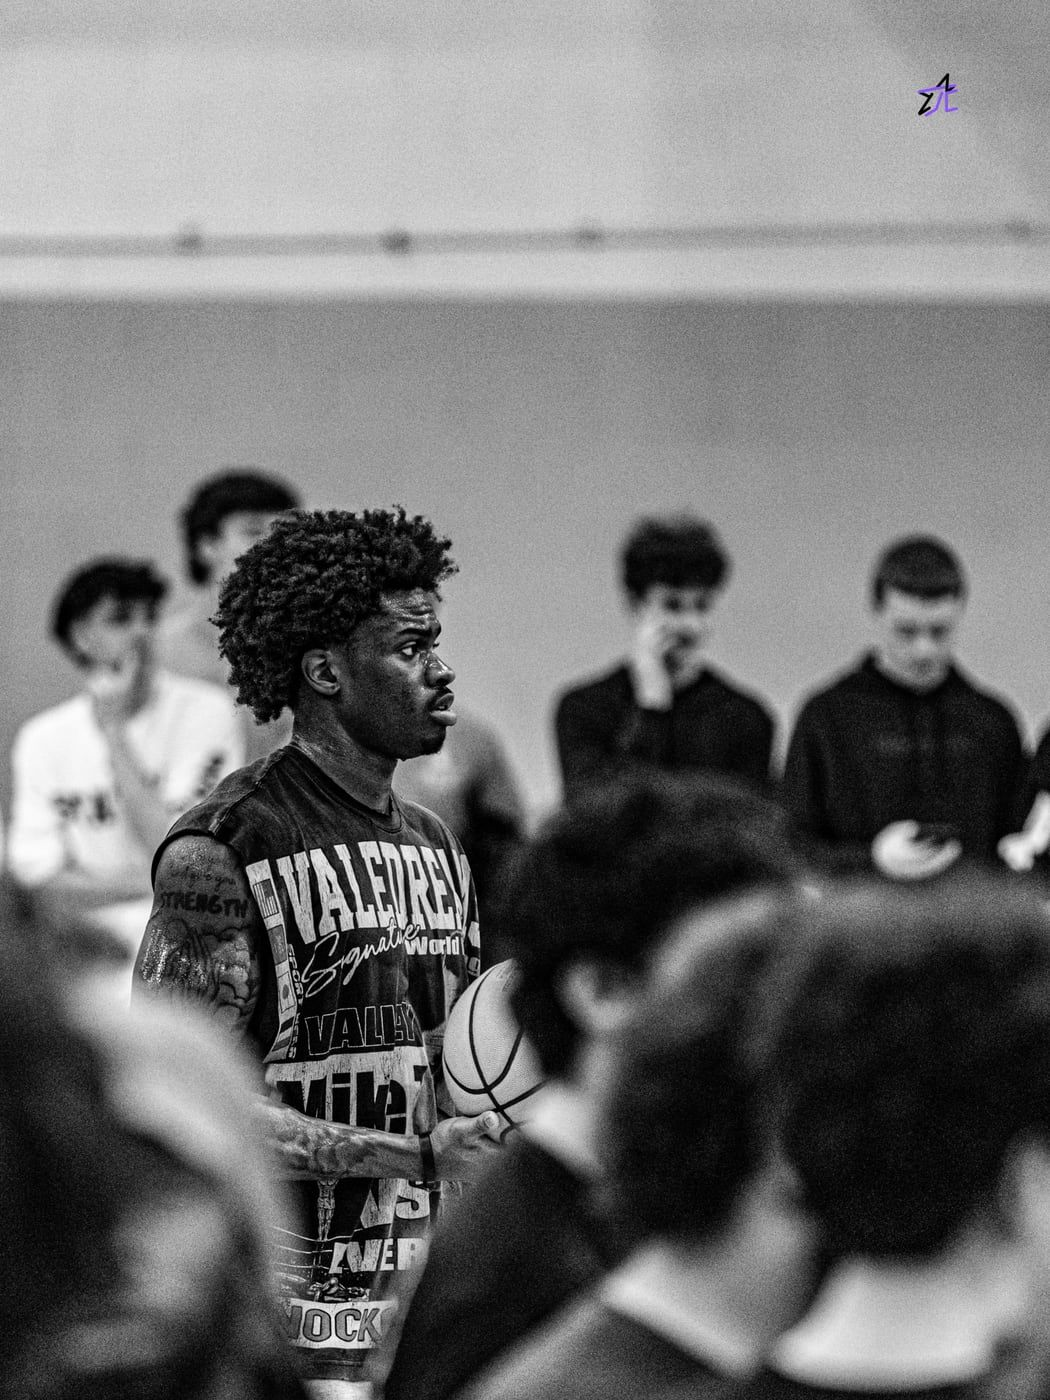
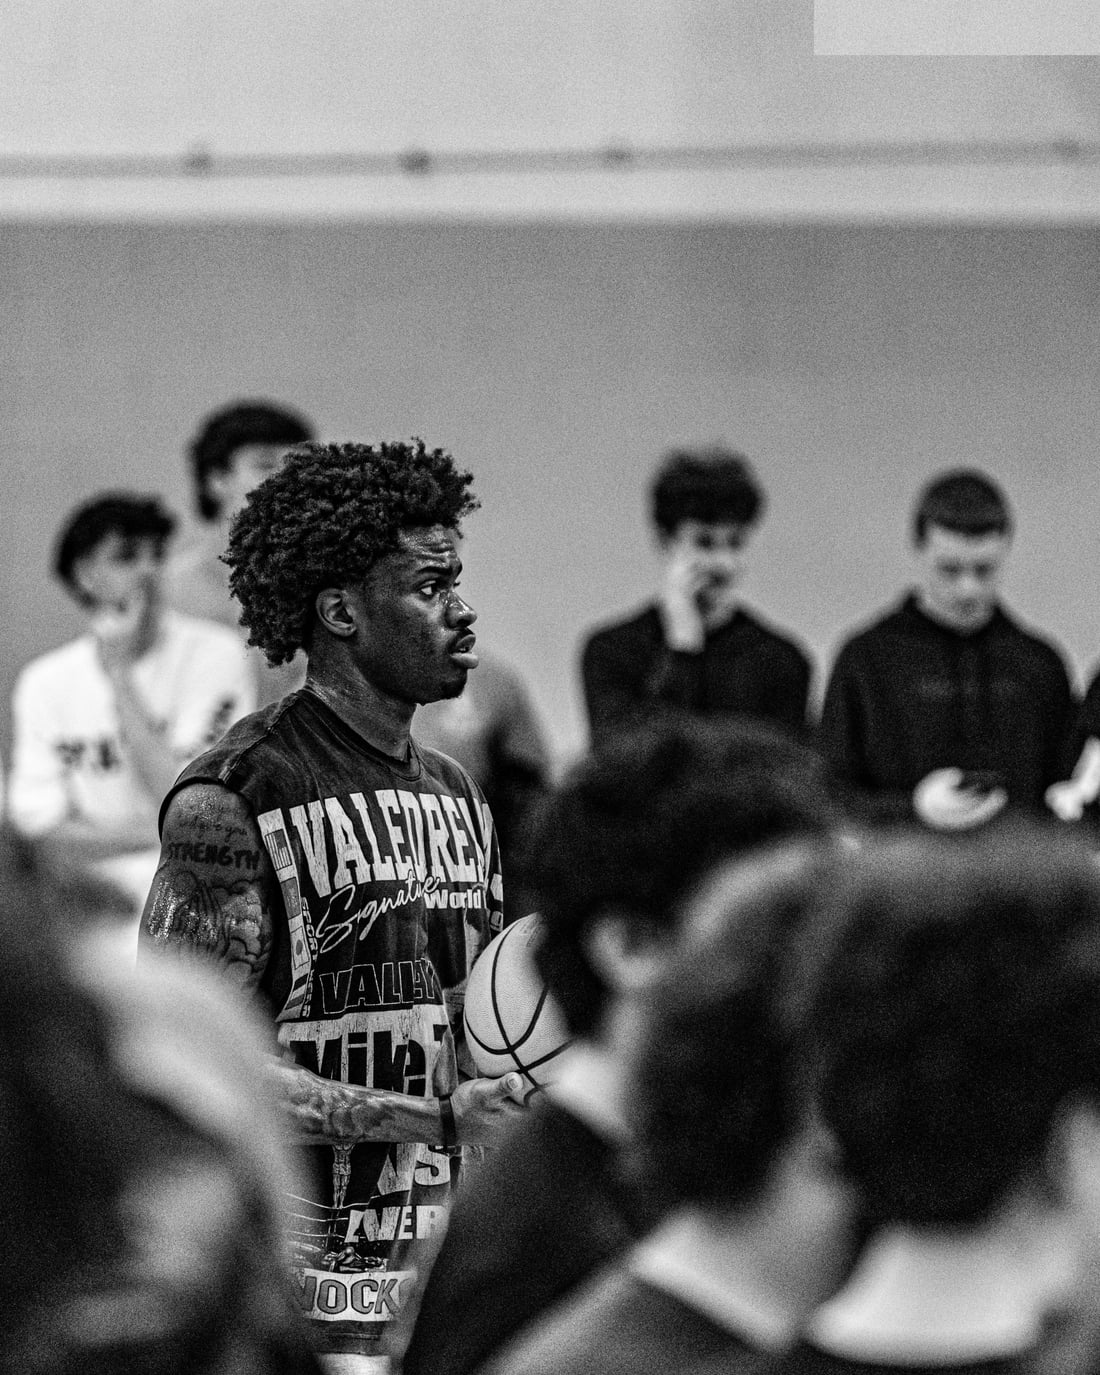
Jacob's edits: jc_wrks wordmark, capitalize buttons/headings/category text, My Work, remove tile numbers, clean basketball watermark

diff --git a/src/data/categories.ts b/src/data/categories.ts
@@ -29,7 +29,7 @@ export const categories: Category[] = [
   {
     slug: "sports",
     title: "Sports",
-    blurb: "Where I do my best work — game on the line, everything to play for.",
+    blurb: "Where I Do My Best Work — Game On The Line, Everything To Play For.",
     type: "group",
     cover: "/covers/sports.jpg",
     sub: [
@@ -45,7 +45,7 @@ export const categories: Category[] = [
   {
     slug: "portraits",
     title: "Portraits",
-    blurb: "Real people, real personality — let's make you look good.",
+    blurb: "Real People, Real Personality — Let's Make You Look Good.",
     type: "gallery",
     count: 10,
     cover: "/covers/portraits.jpg",
@@ -53,7 +53,7 @@ export const categories: Category[] = [
   {
     slug: "landscape",
     title: "Landscape",
-    blurb: "When the scenery's too good not to shoot.",
+    blurb: "When The Scenery's Too Good Not To Shoot.",
     type: "gallery",
     count: 8,
     cover: "/covers/landscape.jpg",
@@ -61,7 +61,7 @@ export const categories: Category[] = [
   {
     slug: "cars",
     title: "Cars",
-    blurb: "Clean builds and good light — my kind of detail work.",
+    blurb: "Clean Builds And Good Light — My Kind Of Detail Work.",
     type: "gallery",
     count: 8,
     cover: "/covers/cars.jpg",
@@ -69,7 +69,7 @@ export const categories: Category[] = [
   {
     slug: "graphics",
     title: "Graphics",
-    blurb: "Commitments, game day, senior night — I'll design it for you.",
+    blurb: "Commitments, Game Day, Senior Night — I'll Design It For You.",
     type: "gallery",
     count: 8,
     cover: "/covers/graphics.jpg",

diff --git a/src/data/site.ts b/src/data/site.ts
@@ -1,7 +1,7 @@
 // Global site info. Swap placeholders for Jacob's real details when ready.
 export const site = {
   name: "Jacob Combs",
-  brand: "jcwrks",
+  brand: "jc_wrks",
   role: "Sports Photographer",
   email: "jacobcombsphotography@gmail.com",
   // response expectation shown on Contact/Book
